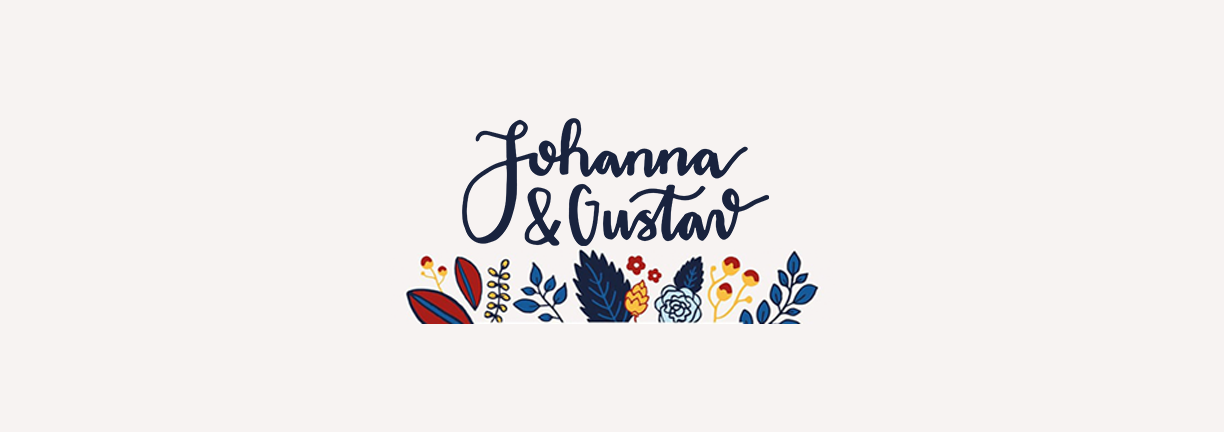
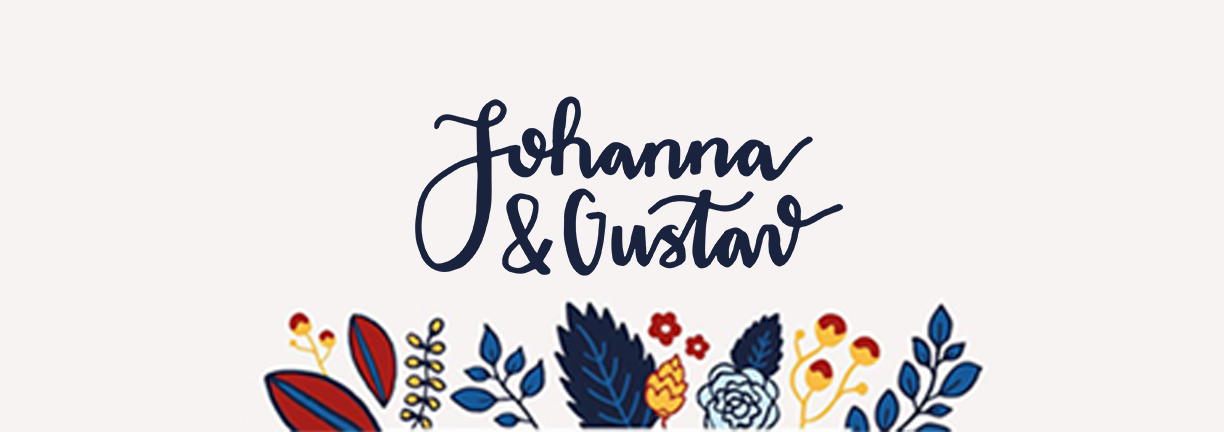
header

Changed region(s): [[0.2173, 0.2106, 0.8072, 1.0]]

diff --git a/style.css b/style.css
@@ -63,7 +63,7 @@ h1, h2, h3 {
   display:flex;
   justify-content: center;
   background-color: #1A243F;
-  margin-top: -100px;
+  margin-top: -200px;
 
 }
 
@@ -131,31 +131,21 @@ h1, h2, h3 {
   background-image: url("images/header3.png");
 
   /* Set a specific height */
-  height: 70%;
+  height: 75%;
 
   /* Position and center the image to scale nicely on all screens */
   background-position: center center;
   background-repeat: no-repeat;
-  background-size: cover;
+  background-size: 100%;
   background-attachment: fixed;
   position: relative;
   display: flex;
   justify-content: center;
   align-items: center;
-  transform: translate(0, -25%);
+  transform: translate(0, -40%);
   margin: 0;
 }
 
-/* Place text in the middle of the image */
-.hero-text{
-  text-align: center;
-  position: absolute;
-  display: flex;
-  justify-content: center;
-  color: white;
-  font-size: 250%;
-  margin-top: 0;
-}
 
 
 /*Kartor*/
@@ -413,16 +403,12 @@ html, body {
   font-size: 130%;
 }
 
-.hero-text h1
-{
-  margin-top: 20%;
-  font-size: 80%;
-}
 
 .hero-image
 {
   background-image: url("images/header4.png");
-  height: 45%;
+  height: 75%;
+  transform: translate(0, -50%);
 }
 
 .container
@@ -460,7 +446,7 @@ html, body {
 
 .myNav
 {
-  margin-top: -15%;
+  margin-top: -360px;
 }
 
 .hotell
